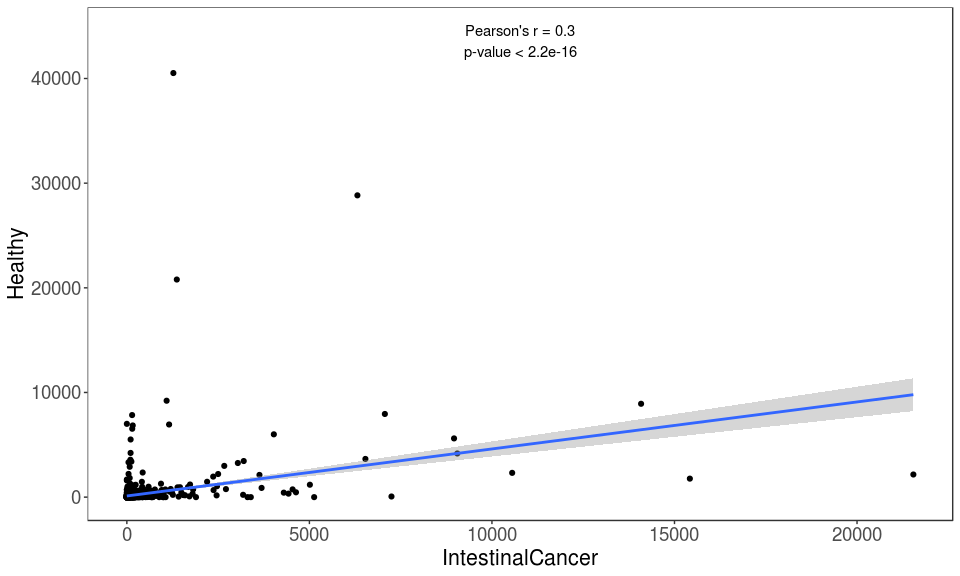
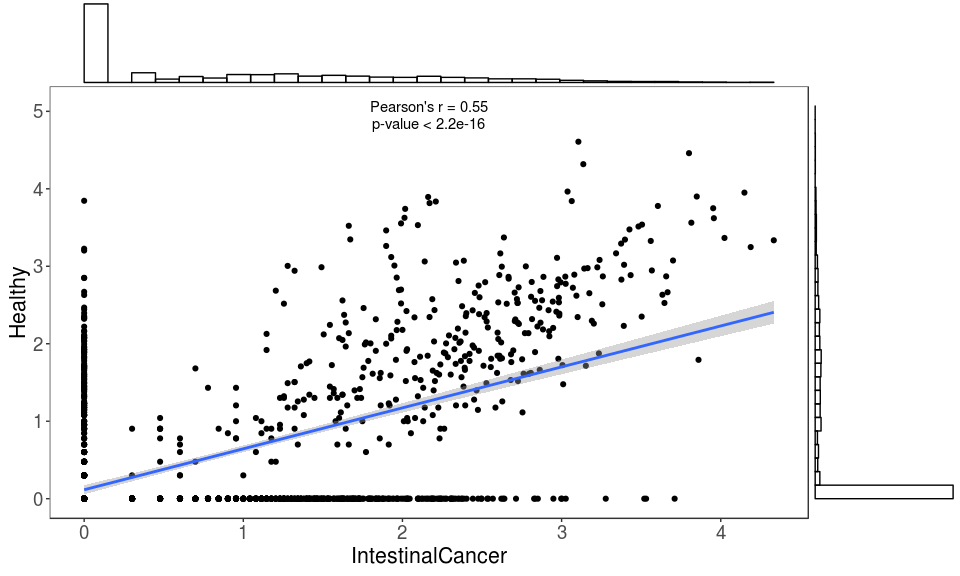
update README files

diff --git a/README.md b/README.md
@@ -300,21 +300,23 @@ cor_tab <- demo_dada2_result$seq_tab %>% t() %>% as.data.frame() %>%
   mutate(LungCancer = s17118650 + s17118680 + s17118691 + s17118703) %>% 
   select(OTU, Healthy, IntestinalCancer, LiverCancer, LungCancer) %>% 
   column_to_rownames("OTU")
+# Normalization
+cor_tab <- (cor_tab + 1) %>% log10()
 knitr::kable(cor_tab[1:10,])
 ```
 
-|       |  Healthy|  IntestinalCancer|  LiverCancer|  LungCancer|
-|-------|--------:|-----------------:|------------:|-----------:|
-| OTU1  |     2208|              2500|         4848|       57706|
-| OTU2  |    28834|              6315|        21387|        7086|
-| OTU3  |    40520|              1274|         2504|           0|
-| OTU4  |     3649|              6534|         4784|       19393|
-| OTU5  |     6940|              1157|         1955|       21328|
-| OTU6  |     2163|             21543|         5482|        1346|
-| OTU7  |     5611|              8962|         6150|        7574|
-| OTU8  |     1768|             15421|         2522|        7851|
-| OTU9  |     8920|             14085|         1899|        1119|
-| OTU10 |     6002|              4026|         9287|        6433|
+|       |   Healthy|  IntestinalCancer|  LiverCancer|  LungCancer|
+|-------|---------:|-----------------:|------------:|-----------:|
+| OTU1  |  3.344196|          3.398114|     3.685652|    4.761228|
+| OTU2  |  4.459920|          3.800442|     4.330170|    3.850462|
+| OTU3  |  4.607680|          3.105510|     3.398808|    0.000000|
+| OTU4  |  3.562293|          3.815246|     3.679882|    4.287667|
+| OTU5  |  3.841422|          3.063709|     3.291369|    4.328970|
+| OTU6  |  3.335257|          4.333326|     3.739018|    3.129368|
+| OTU7  |  3.749118|          3.952453|     3.788946|    3.879383|
+| OTU8  |  3.247728|          4.188141|     3.401917|    3.894980|
+| OTU9  |  3.950413|          4.148788|     3.278754|    3.049218|
+| OTU10 |  3.778368|          3.604982|     3.967922|    3.808481|
 
 ### Minimum usage
 
